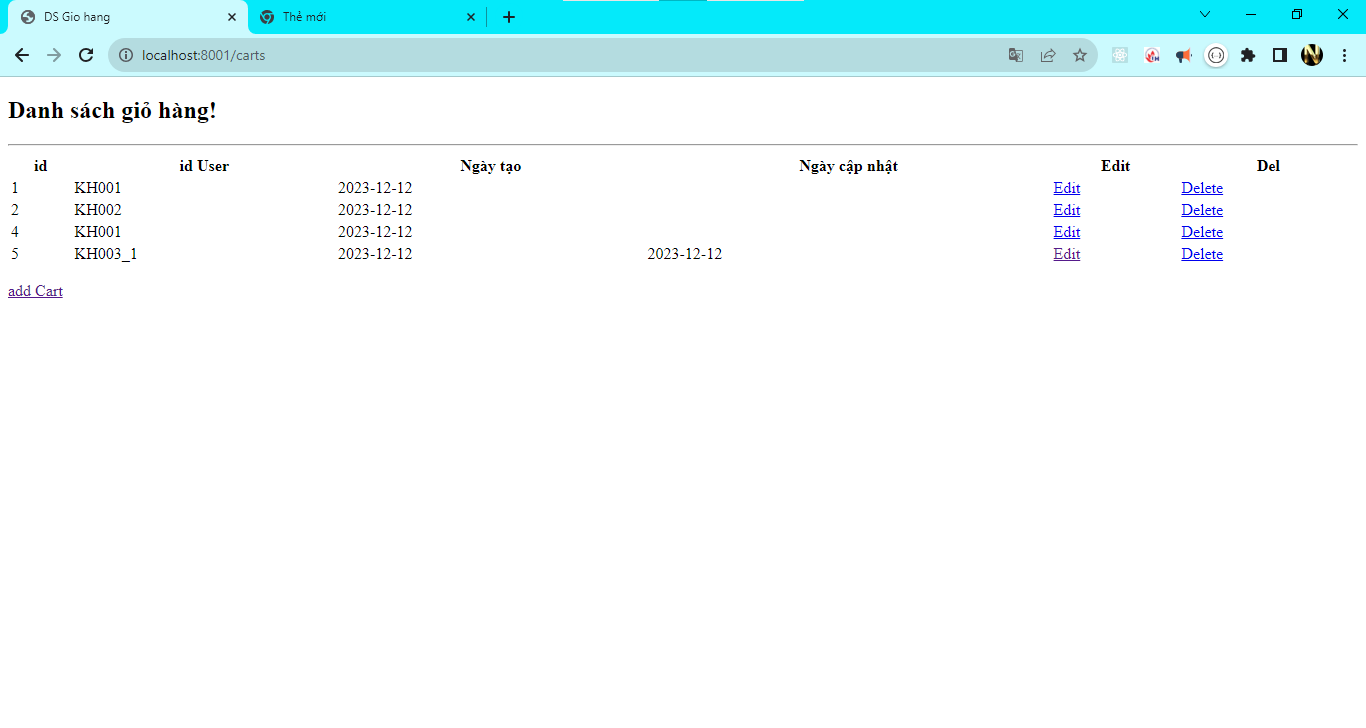
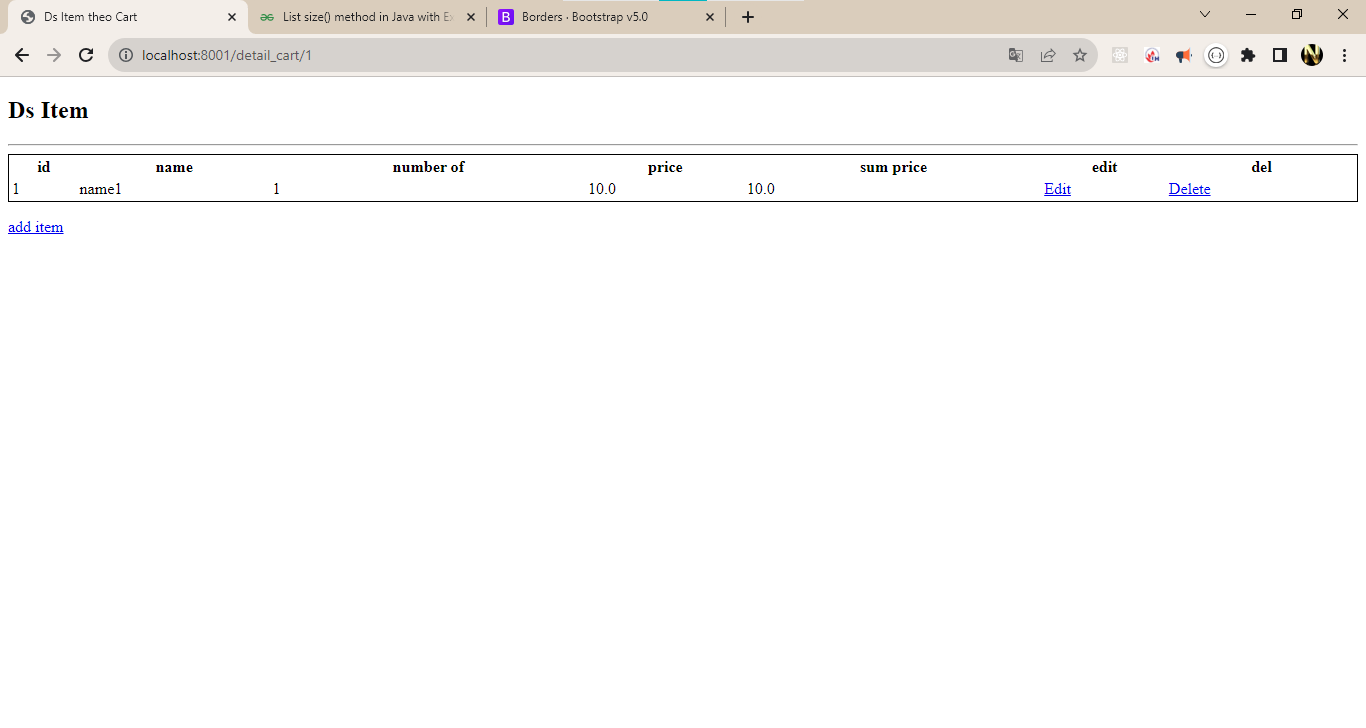
onTapCK1: add detail Cart

diff --git a/Demo/ontapCK_mariaDB_JPA_Thymeleaf_Cart_Item/src/main/resources/templates/item/page-item.html b/Demo/ontapCK_mariaDB_JPA_Thymeleaf_Cart_Item/src/main/resources/templates/item/page-item.html
@@ -1,0 +1,42 @@
+<!DOCTYPE html>
+<html lang="en">
+<head>
+    <meta charset="UTF-8">
+    <title>Ds Item theo Cart</title>
+</head>
+<body>
+    <h2>Ds Item</h2>
+
+    <hr/>
+    <div th:switch="${items}" >
+        <h2 th:case="null"> Khongo co gia tri</h2>
+        <div th:case="*" >
+            <table style="width: 100%;" >
+                <thead>
+                <tr>
+                    <th>id</th>
+                    <th>name</th>
+                    <th>number of</th>
+                    <th>price</th>
+                    <th>sum price</th>
+                    <th>edit</th>
+                    <th>del</th>
+                </tr>
+                </thead>
+                <tbody>
+                <tr th:each="item: ${items}">
+                    <td th:text="${item.id}"></td>
+                    <td th:text="${item.name}"></td>
+                    <td th:text="${item.numberOf}"></td>
+                    <td th:text="${item.price}"></td>
+                    <td th:text="${item.sumPrice}"></td>
+                    <td><a th:href="@{/update_item/{id}(id=${item.id})}" />Edit</td>
+                    <td><a th:href="@{/delete_item/{id}(id=${item.id})}" />Delete</td>
+                </tr>
+                </tbody>
+            </table>
+        </div>
+    </div>
+    <p> <a href="/add_item" />add item</p>
+</body>
+</html>

diff --git a/Demo/ontapCK_mariaDB_JPA_Thymeleaf_Cart_Item/src/main/resources/templates/cart/page-cart.html b/Demo/ontapCK_mariaDB_JPA_Thymeleaf_Cart_Item/src/main/resources/templates/cart/page-cart.html
@@ -14,6 +14,7 @@
             <th>id User</th>
             <th>Ngày tạo</th>
             <th>Ngày cập nhật</th>
+            <th>DS San pham</th>
             <th>Edit</th>
             <th>Del</th>
         </tr>
@@ -24,6 +25,7 @@
             <td th:text="${cart.idUser}"></td>
             <td th:text="${cart.dateAdd}"></td>
             <td th:text="${cart.dateUpdate}"></td>
+            <td ><a th:href="@{/detail_cart/{id}(id=${cart.id})}" />Detail</td>
             <td ><a th:href="@{/update_cart/{id}(id=${cart.id})}" />Edit</td>
             <td ><a th:href="@{/delete_cart/{id}(id=${cart.id})}" />Delete</td>
         </tr>

diff --git a/Demo/ontapCK_mariaDB_JPA_Thymeleaf_Cart_Item/src/main/resources/templates/item/items.html b/Demo/ontapCK_mariaDB_JPA_Thymeleaf_Cart_Item/src/main/resources/templates/item/items.html
@@ -1,0 +1,10 @@
+<!DOCTYPE html>
+<html lang="en">
+<head>
+    <meta charset="UTF-8">
+    <title>Ds item theo ID Cart</title>
+</head>
+<body>
+
+</body>
+</html>

diff --git a/Demo/ontapCK_mariaDB_JPA_Thymeleaf_Cart_Item/src/main/java/vn/edu/iuh/fit/controller/CartController.java b/Demo/ontapCK_mariaDB_JPA_Thymeleaf_Cart_Item/src/main/java/vn/edu/iuh/fit/controller/CartController.java
@@ -9,15 +9,21 @@ import org.springframework.web.bind.annotation.GetMapping;
 import org.springframework.web.bind.annotation.PathVariable;
 import org.springframework.web.bind.annotation.PostMapping;
 import vn.edu.iuh.fit.entity.Cart;
+import vn.edu.iuh.fit.entity.Item;
 import vn.edu.iuh.fit.repository.CartRepository;
+import vn.edu.iuh.fit.repository.ItemRepository;
 
 import java.time.LocalDate;
+import java.util.ArrayList;
+import java.util.List;
 
 @Controller
 public class CartController {
 
     @Autowired
     private CartRepository cartRepository;
+    @Autowired
+    private ItemRepository itemRepository;
 
     //
     @GetMapping("/carts")
@@ -74,5 +80,17 @@ public class CartController {
                 .orElseThrow(() -> new IllegalArgumentException("Khonog tin thay Cart:" + id));
         cartRepository.delete(cart);
         return "redirect:/carts";
+    }
+
+    //
+    @GetMapping("/detail_cart/{id}")
+    public String detail_cart(@PathVariable("id") long id, Model model) {
+
+        List<Item> items = itemRepository.findItemByCart_Id(id);
+        if (items.size() == 0)
+            model.addAttribute("items", null);
+        else
+            model.addAttribute("items", items);
+        return "/item/page-item";
     }
 }

diff --git a/Demo/ontapCK_mariaDB_JPA_Thymeleaf_Cart_Item/src/main/java/vn/edu/iuh/fit/repository/ItemRepository.java b/Demo/ontapCK_mariaDB_JPA_Thymeleaf_Cart_Item/src/main/java/vn/edu/iuh/fit/repository/ItemRepository.java
@@ -4,6 +4,9 @@ import org.springframework.data.jpa.repository.JpaRepository;
 import org.springframework.stereotype.Repository;
 import vn.edu.iuh.fit.entity.Item;
 
+import java.util.List;
+
 @Repository
 public interface ItemRepository extends JpaRepository<Item, Long> {
+    public List<Item> findItemByCart_Id(long id);
 }
